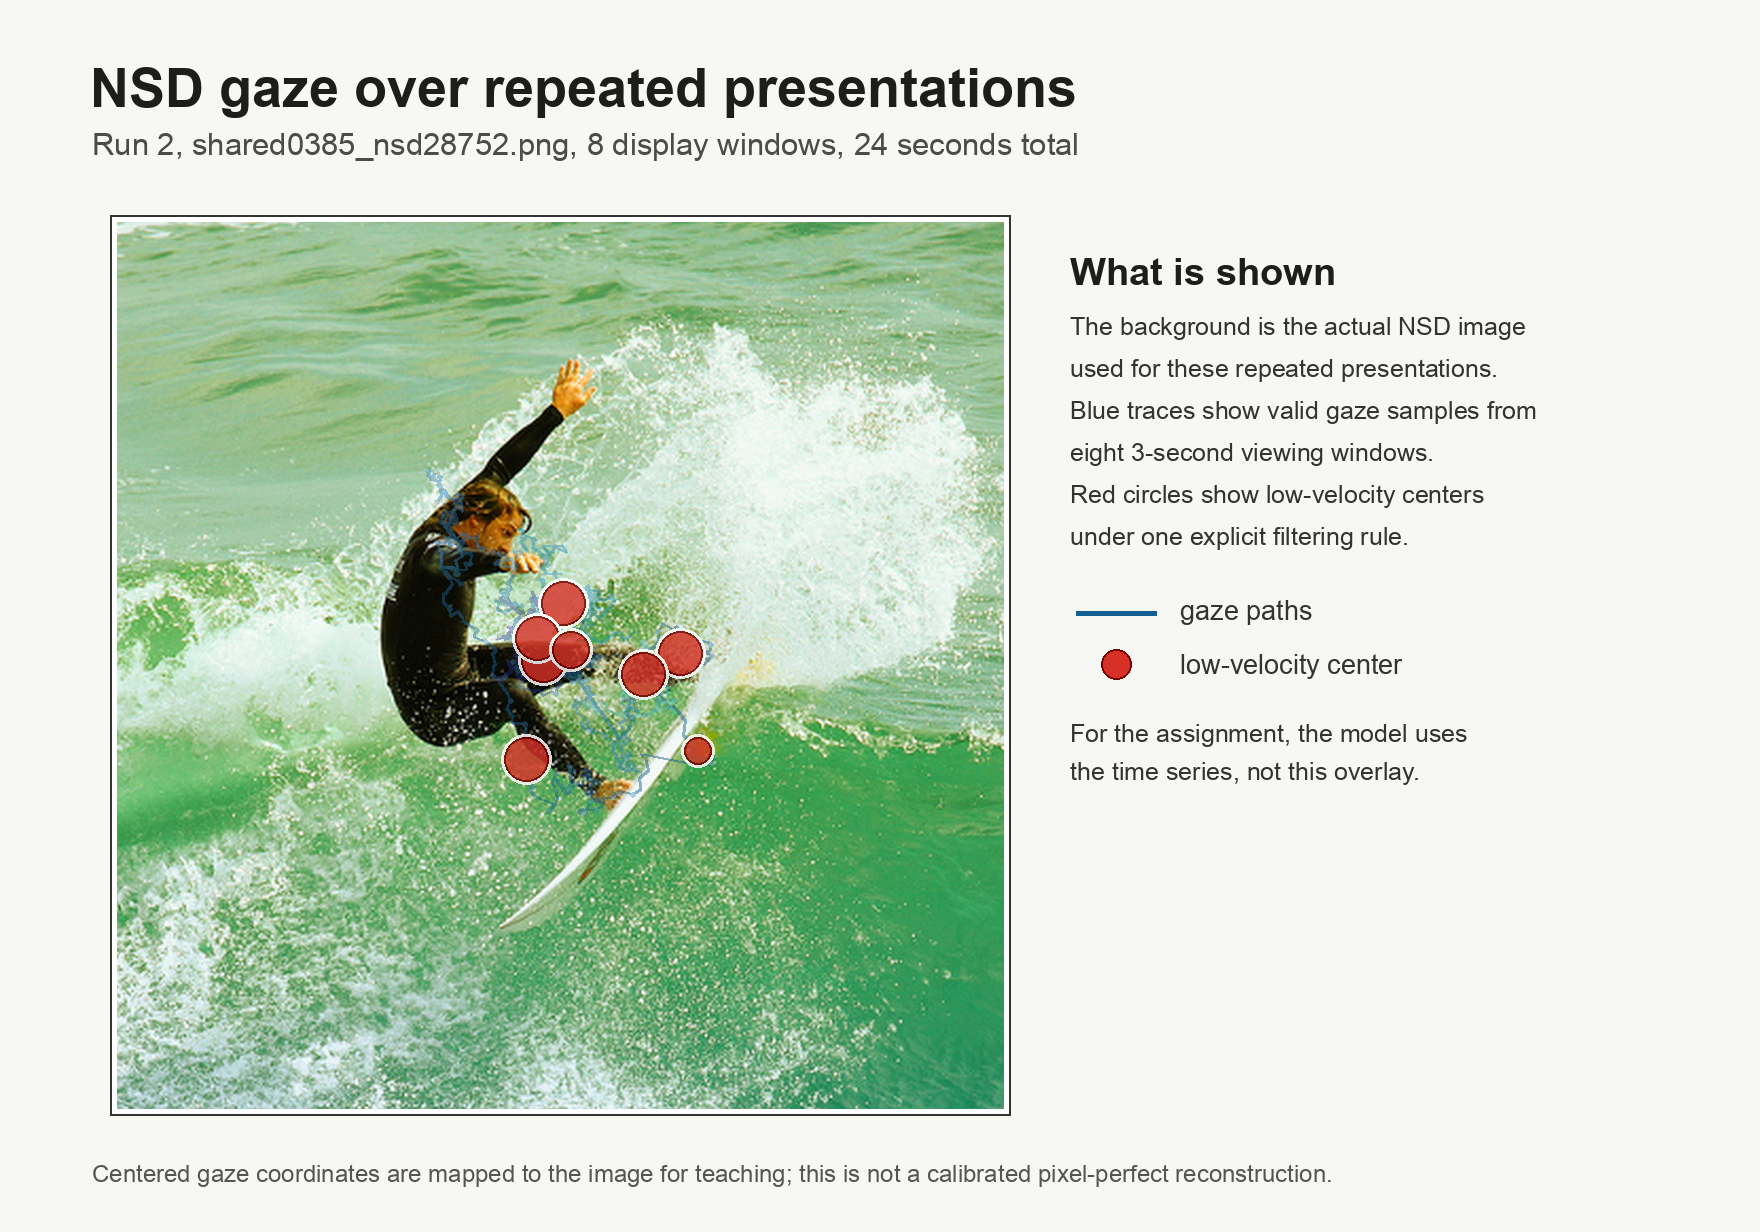
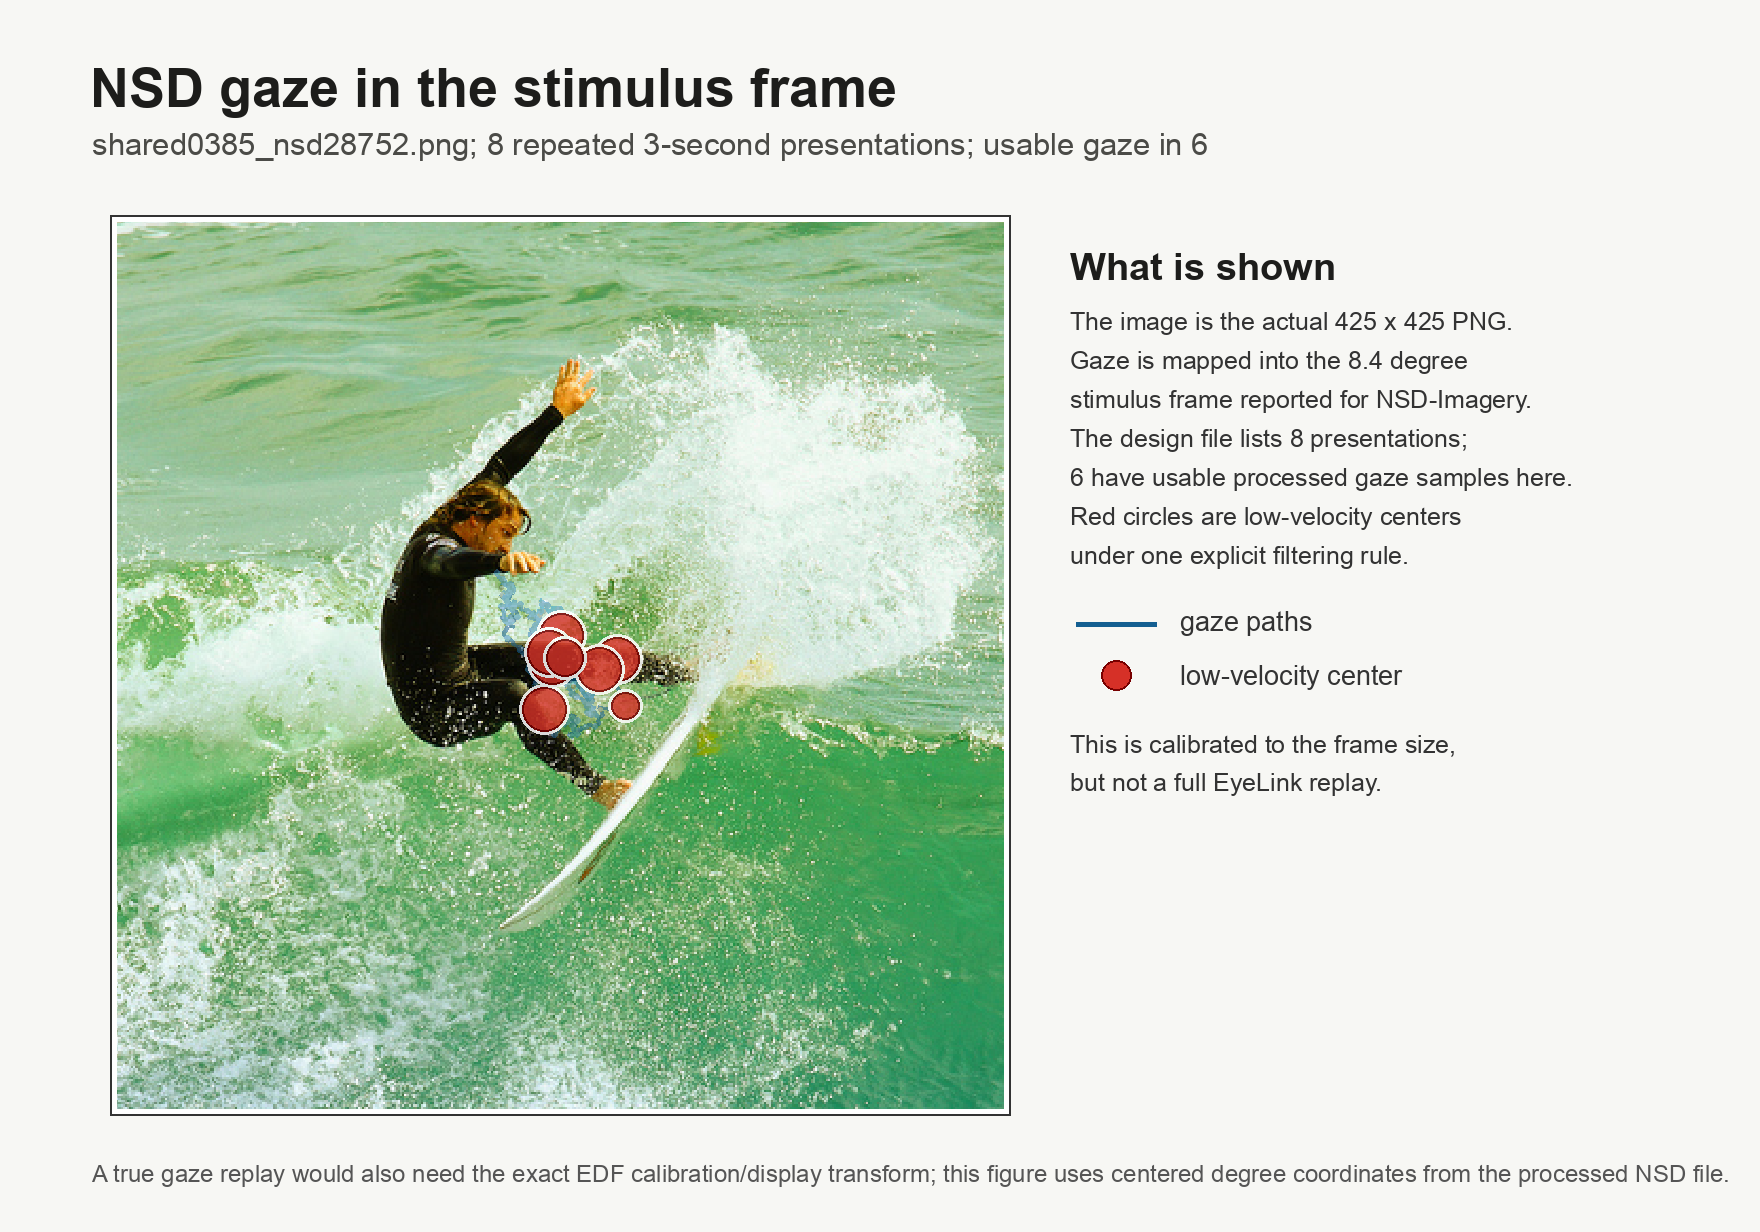
Clarify NSD eye-tracking presentations

diff --git a/projects/time_series.md b/projects/time_series.md
@@ -10,7 +10,7 @@
 
 ![NSD eye-tracking movement over repeated image presentations](/assets/img/projects/nsd_eye_tracking_fixation_candidates.png)
 
-*Example from an NSD eye-tracking run: the background is the displayed NSD imagery target, blue traces show valid gaze samples from eight 3-second viewing windows (24 seconds total), and red circles show low-velocity centers under one explicit filtering rule. The model should use the time series, not the overlay.*
+*Example from an NSD eye-tracking run: the background is the actual displayed NSD imagery target, and gaze is mapped into the 8.4 x 8.4 degree stimulus frame. The design file lists eight 3-second presentations of this target image; six have usable processed gaze samples in this extract. Red circles show low-velocity centers under one explicit filtering rule. The model should use the time series, not the overlay.*
 
 ## Tutorial framing
 
@@ -83,6 +83,12 @@ subset is:
 - One or a few small target images from:
   `s3://natural-scenes-dataset/nsddata/experiments/nsdimagery/rawtargetimages/`
 
+Here "repeated target image" means that the same stimulus appears multiple times
+within the run. In the example figure, `shared0385_nsd28752.png` is scheduled at
+eight separate onsets in run 2. Each onset starts a 3-second image-presentation
+period, followed by a 1-second rest/fixation period. These are repeated
+presentations of the same image, not eight different screen regions.
+
 Do **not** download the full 37 GB `nsd_stimuli.hdf5`, all subjects, all EDF
 files, or any fMRI beta files for this project.
 
@@ -143,6 +149,8 @@ Week 1 questions:
 - What is the sampling rate after preprocessing?
 - Which columns represent time, x gaze, y gaze, and pupil area?
 - Which file tells us when the target image is on screen?
+- What is a target-image presentation, and how is it different from a screen
+  region or image file?
 - What does the device-native EDF file preserve, what does the NSD `.mat`
   preprocessing make easier, and what are the consequences of relying on
   proprietary binary formats rather than open, documented, analysis-ready
